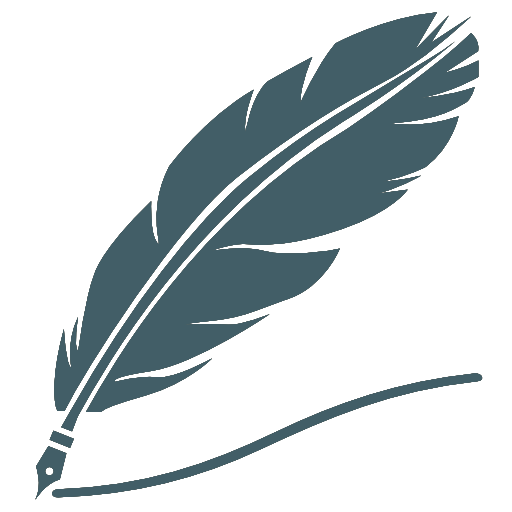
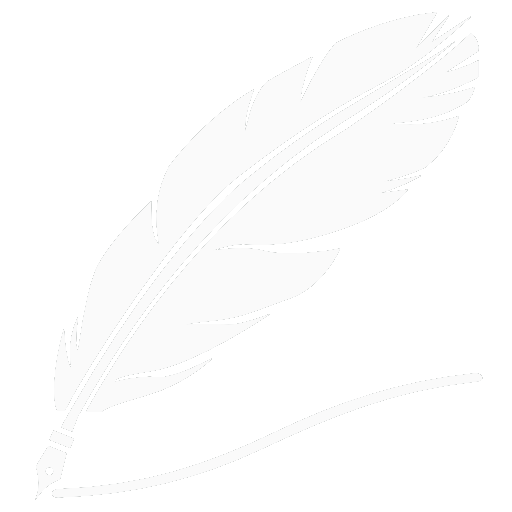
all_change_header

Changed region(s): [[0.0625, 0.0, 0.9375, 0.9688]]

diff --git a/css/style.css b/css/style.css
@@ -69,7 +69,7 @@ body {
     position: fixed;
 }
 .header_logo {
-    color: #425e67;
+    color: #fafafa;
     font-family: monospace;
     margin-top: 0px;
     padding-top: 4px;
@@ -85,7 +85,7 @@ body {
 }
 .menu_item {
     float: left;
-    color: #425e67;
+    color: #fafafa;
     width: 25%;
     padding-top: 6px;
     font-family: monospace;
